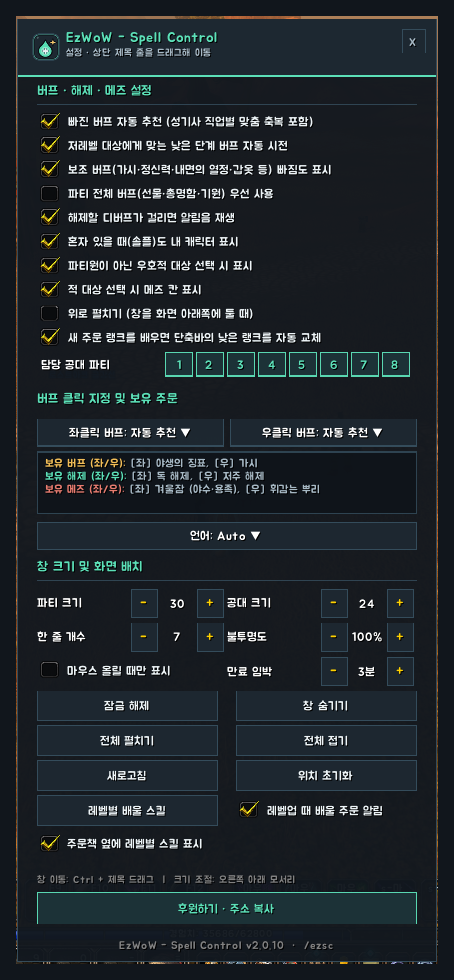
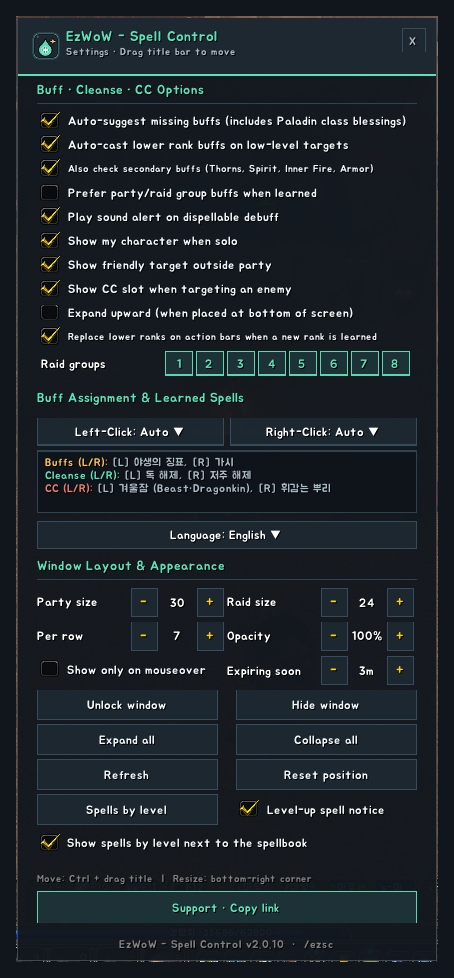
영어 설명용 게임 화면 추가

diff --git a/docs/curseforge_description.md b/docs/curseforge_description.md
@@ -13,7 +13,7 @@ A small tactical board for WoW Forever: **buff missing members, cleanse debuffs 
 
 ![Settings window](https://raw.githubusercontent.com/qqhrqqhr2/EzWoW-SpellControl/master/docs/images/settings_en.png)
 
-*In-game screenshots (WoW Forever, Korean client). Character and player names and chat text are blurred.*
+*In-game screenshots with the addon set to English. The game client is Korean, so game text such as zone, item and spell names stays Korean. Character and player names and chat text are blurred.*
 
 ## Features
 

diff --git a/README.md b/README.md
@@ -147,7 +147,7 @@ The talent window gets a **Recommended** button: pick a recommended build for yo
 
 ![Settings window](docs/images/settings_en.png)
 
-> In-game screenshots (WoW Forever, Korean client). Character and player names and chat text are blurred.
+> In-game screenshots with the addon set to English. The game client is Korean, so game text such as zone, item and spell names stays Korean. Character and player names and chat text are blurred.
 
 ### Installation
 
